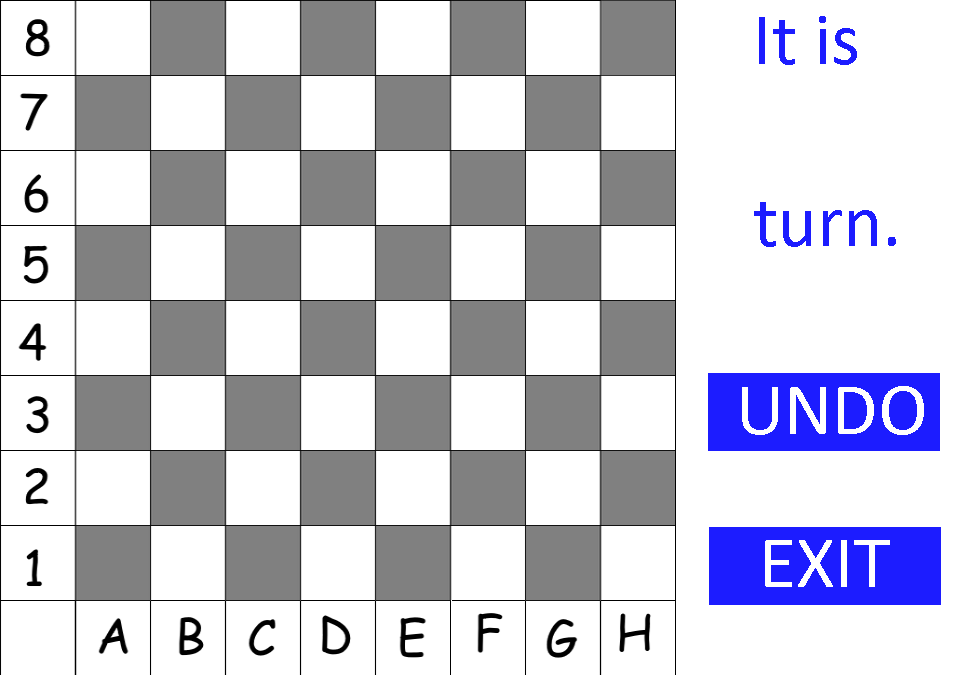
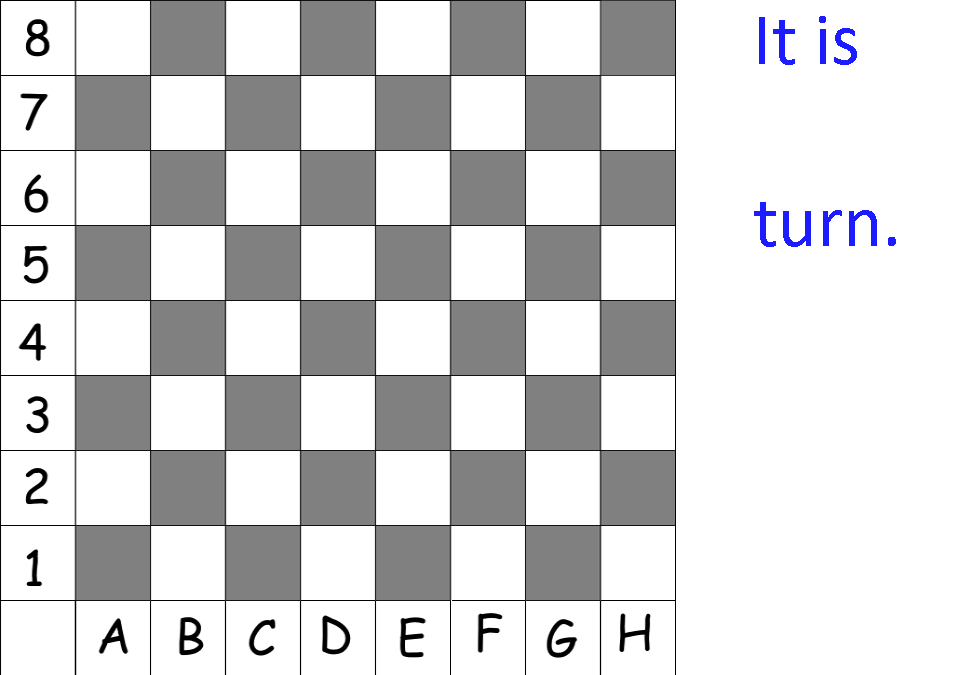
Added a menu

Changed region(s): [[0.7077, 0.5289, 0.9846, 0.6844], [0.7077, 0.7778, 0.9846, 0.9022]]

diff --git a/Chess.html b/Chess.html
@@ -1,15 +1,125 @@
 <html>
 <body>
-<canvas id="chessboard" onclick = "mouseStop()" width="975" height="675" style="border:3px solid #d3d3d3;" >
+<canvas id="chessboard" onclick = "mouseStop()" onmousemove = "mouseMove()" width="975" height="675" style="border:3px solid #d3d3d3;" >
 </canvas>
 
 <script type="text/javascript">
 
 //WIP Features: Collision detection bewtween pieces, Pawns changing into other pieces, en passant
 
-var aiOption = confirm("Do you want to play with AI?");
+//Functions and variables for menu screen. Also includes all buttons that change colors when moused over.
+{
+var aiOption = false;
 
-//Functions and varibles for clicking on the chessboard.
+var inGame = false;
+
+function mouseMove() {
+	if (getMouseCoords(event)[0] > 250 && getMouseCoords(event)[0] < 727 
+	&& getMouseCoords(event)[1] > 407 && getMouseCoords(event)[1] < 555 && inGame == false) {
+		drawMenuPerson();
+	} else if (getMouseCoords(event)[0] > 250 && getMouseCoords(event)[0] < 727 
+	&& getMouseCoords(event)[1] > 116 && getMouseCoords(event)[1] < 262 && inGame == false) {
+		drawMenuAI();
+	} else if (getMouseCoords(event)[0] > 710 && getMouseCoords(event)[0] < 940 
+	&& getMouseCoords(event)[1] > 550 && getMouseCoords(event)[1] < 645 && inGame == true) {
+		drawMenuButtonOn();
+	} else if (inGame == true) {
+		drawMenuButtonOff();
+	} else if (inGame == false) {
+		drawMenuAIOff();
+		drawMenuPersonOff();
+	};
+}
+
+function drawMenuButtonOn () {
+	var c = document.getElementById("chessboard");
+	var ctx = c.getContext("2d");
+	var menuButtonOn = new Image();
+	menuButtonOn.src = "menuButtonOn.png";
+	menuButtonOn.onload = function() {
+	ctx.drawImage(menuButtonOn,710,550,230,91);
+	};
+};
+
+function drawMenuButtonOff () {
+	var c = document.getElementById("chessboard");
+	var ctx = c.getContext("2d");
+	var menuButtonOff = new Image();
+	menuButtonOff.src = "menuButtonOff.png";
+	menuButtonOff.onload = function() {
+	ctx.drawImage(menuButtonOff,710,550,230,91);
+	};
+};
+
+function drawMenuScreen () {
+	var c = document.getElementById("chessboard");
+	var ctx = c.getContext("2d");
+	var menu = new Image();
+	menu.src = "menu.png";
+	menu.onload = function() {
+	ctx.drawImage(menu,0,0,975,675);
+	};
+};
+
+function drawMenuAI () {
+	var c = document.getElementById("chessboard");
+	var ctx = c.getContext("2d");
+	var menuPlayAI = new Image();
+	menuPlayAI.src = "menuPlayAI.png";
+	menuPlayAI.onload = function() {
+	ctx.drawImage(menuPlayAI,254,117,473,145);
+	};
+};
+
+function drawMenuAIOff () {
+	var c = document.getElementById("chessboard");
+	var ctx = c.getContext("2d");
+	var menuPlayAIOff = new Image();
+	menuPlayAIOff.src = "menuPlayAIOff.png";
+	menuPlayAIOff.onload = function() {
+	ctx.drawImage(menuPlayAIOff,254,117,473,145);
+	};
+};
+
+function drawMenuPersonOff () {
+	var c = document.getElementById("chessboard");
+	var ctx = c.getContext("2d");
+	var menuPlayPersonOff = new Image();
+	menuPlayPersonOff.src = "menuPlayPersonOff.png";
+	menuPlayPersonOff.onload = function() {
+	ctx.drawImage(menuPlayPersonOff,253,408,473,145);
+	};
+};
+
+function drawMenuPerson () {
+	var c = document.getElementById("chessboard");
+	var ctx = c.getContext("2d");
+	var menuPlayPerson = new Image();
+	menuPlayPerson.src = "menuPlayPerson.png";
+	menuPlayPerson.onload = function() {
+	ctx.drawImage(menuPlayPerson,253,408,473,145);
+	};
+};
+
+function drawChessplayer () {
+	var c = document.getElementById("chessboard");
+	var ctx = c.getContext("2d");
+	var chessplayer = new Image();
+	var randomInt = (Math.floor(Math.random() * (10)) + 1);
+	chessplayer.src = "chessBackground9.png";
+	chessplayer.onload = function() {
+	ctx.drawImage(chessplayer,0,0,975,675);
+	};
+}
+
+drawChessplayer();
+drawMenuScreen();
+drawMenuAIOff();
+drawMenuPersonOff();
+
+};
+
+//Functions and varibles for clicking on the screen.
 {
 //Every time the canvas is pressed, the x and y coordinates of the mouse are logged in nextTurnOrigin the first time and nextTurnDestination.
 //At the beginning of the next turn, mouseStopVar should be reset to 0.
@@ -37,12 +147,12 @@ function getMouseCoordsDestination(event) {
 
 var mouseStopVar = 0; 
 
-var inGame = true;
-
 //This function calls gameLoop after two clicks are registered and the coords have been recorded, then it resets mouseStopVar.
 //If the mouse is not clicked within the chessboard, menuClicks is called.
-function mouseStop (){
-	clearWarningBox();
+function mouseStop () {
+	if (getMouseCoords(event)[0] < 675 && inGame == true) {
+		clearWarningBox();
+	};
 	if (mouseStopVar == 0 && getMouseCoords(event)[0] < 675 && inGame == true) {
 		getMouseCoordsOrigin(event);
 		if (mouseToArray(nextTurnOrigin) == empty) {
@@ -57,15 +167,27 @@ function mouseStop (){
 		getMouseCoordsDestination(event);
 		gameLoop();
 		mouseStopVar = 0;
-	} else {
-		menuClicks();
-	};
-};
-
-function menuClicks () {
-	if (getMouseCoords(event)[0] > 706 && getMouseCoords(event)[0] < 939 
-	&& getMouseCoords(event)[1] > 367 && getMouseCoords(event)[1] < 445) {
-		moveUndo();
+	} else if (getMouseCoords(event)[0] > 710 && getMouseCoords(event)[0] < 940 
+	&& getMouseCoords(event)[1] > 550 && getMouseCoords(event)[1] < 645 && inGame == true) {
+		inGame = false;
+		chessboardReset();
+		drawMenuScreen();
+	} else if (inGame == false) {
+		if (getMouseCoords(event)[0] > 253 && getMouseCoords(event)[0] < 727 
+		&& getMouseCoords(event)[1] > 116 && getMouseCoords(event)[1] < 262 && inGame == false) {
+			aiOption = true;
+			inGame = true;
+			drawChessboardOutline();
+			drawChessboard();
+			whiteTurn();
+		} else if (getMouseCoords(event)[0] > 250 && getMouseCoords(event)[0] < 727 
+		&& getMouseCoords(event)[1] > 407 && getMouseCoords(event)[1] < 555 && inGame == false) {
+			aiOption = false;
+			inGame = true;
+			drawChessboardOutline();
+			drawChessboard();
+			whiteTurn();
+		};
 	};
 };
 
@@ -110,6 +232,7 @@ function drawChessboardOutline () {
 	} else if (playerTurn == -1) {
 		blackTurn();
 	};
+	
 };
 
 function drawBlueOutline (x,y) { 
@@ -130,7 +253,8 @@ function drawBlueOutline (x,y) {
     blue_outline.src = "blue_outline.png";
     blue_outline.onload = function() {
      ctx.drawImage(blue_outline,xNew,yNew,75,75);
-	};
+	};	
+	
 };
 
 function drawInvalidMove () {
@@ -205,24 +329,6 @@ var chessBoard5 = [empty,empty,empty,empty,empty,empty,empty,empty];
 var chessBoard6 = [empty,empty,empty,empty,empty,empty,empty,empty];
 var chessBoard7 = [PA,PA,PA,PA,PA,PA,PA,PA];	
 var chessBoard8 = [RO,KN,BI,QU,KI,BI,KN,RO];
-
-var chessBoard1Undo = chessBoard1;
-var chessBoard2Undo = chessBoard2;
-var chessBoard3Undo = chessBoard3;
-var chessBoard4Undo = chessBoard4;
-var chessBoard5Undo = chessBoard5;
-var chessBoard6Undo = chessBoard6;
-var chessBoard7Undo = chessBoard7;
-var chessBoard8Undo = chessBoard8;
-
-var chessBoard1Undo2 = chessBoard1Undo;
-var chessBoard2Undo2 = chessBoard2Undo;
-var chessBoard3Undo2 = chessBoard3Undo;
-var chessBoard4Undo2 = chessBoard4Undo;
-var chessBoard5Undo2 = chessBoard5Undo;
-var chessBoard6Undo2 = chessBoard6Undo;
-var chessBoard7Undo2 = chessBoard7Undo;
-var chessBoard8Undo2 = chessBoard8Undo;
 
 //This function places a piece on 'HTMLchessboard' 
 //Input: Chess Piece Variable, X-Coord on Canvas, Y-Coord on Canvas
@@ -666,14 +772,12 @@ function whiteCastling() {
 	var destinationCoords = mouseToCoords(nextTurnDestination);
 	if (mouseToArray(nextTurnOrigin) == KI && destinationCoords[0] == 7 && whiteCastleYet == false
 	&& destinationCoords[1] == 8 && chessBoard8[7] == RO && chessBoard8[6] == empty && chessBoard8[5] == empty) {
-		moveUndoRecord();
 		movePiece(mouseToCoords(nextTurnOrigin),mouseToCoords(nextTurnDestination));
 		movePiece(['8','8'],['6','8']);
 		console.log ("White has kingside castled.");
 		return true;
 	} else if (mouseToArray(nextTurnOrigin) == KI && destinationCoords[0] == 2 && blackCastleYet == false
 	&& destinationCoords[1] == 8 && chessBoard8[0] == RO && chessBoard8[1] == empty && chessBoard8[2] == empty && chessBoard8[3] == empty) {
-		moveUndoRecord();
 		movePiece(mouseToCoords(nextTurnOrigin),mouseToCoords(nextTurnDestination));
 		movePiece(['1','8'],['3','8']);
 		console.log ("White has queenside castled.");
@@ -691,14 +795,12 @@ function blackCastling() {
 	var destinationCoords = mouseToCoords(nextTurnDestination);
 	if (mouseToArray(nextTurnOrigin) == ki && destinationCoords[0] == 7 
 	&& destinationCoords[1] == 1 && chessBoard1[7] == ro && chessBoard1[6] == empty && chessBoard1[5] == empty) {
-		moveUndoRecord();
 		movePiece(mouseToCoords(nextTurnOrigin),mouseToCoords(nextTurnDestination));
 		movePiece(['8','1'],['6','1']);
 		console.log ("White has kingside castled.");
 		return true;
 	} else if (mouseToArray(nextTurnOrigin) == ki && destinationCoords[0] == 2
 	&& destinationCoords[1] == 1 && chessBoard1[0] == ro && chessBoard1[1] == empty && chessBoard1[2] == empty && chessBoard1[3] == empty) {
-		moveUndoRecord();
 		movePiece(mouseToCoords(nextTurnOrigin),mouseToCoords(nextTurnDestination));
 		movePiece(['1','1'],['3','1']);
 		console.log ("White has queenside castled.");
@@ -892,67 +994,6 @@ function movePiece (origin, destination) {
 		
 };
  
-//Records moves. Call before movePiece() 
-function moveUndoRecord () {
-	var chessBoard1Undo2 = chessBoard1Undo;
-	var chessBoard2Undo2 = chessBoard2Undo;
-	var chessBoard3Undo2 = chessBoard3Undo;
-	var chessBoard4Undo2 = chessBoard4Undo;
-	var chessBoard5Undo2 = chessBoard5Undo;
-	var chessBoard6Undo2 = chessBoard6Undo;
-	var chessBoard7Undo2 = chessBoard7Undo;
-	var chessBoard8Undo2 = chessBoard8Undo;
-	
-	var chessBoard1Undo = chessBoard1;
-	var chessBoard2Undo = chessBoard2;
-	var chessBoard3Undo = chessBoard3;
-	var chessBoard4Undo = chessBoard4;
-	var chessBoard5Undo = chessBoard5;
-	var chessBoard6Undo = chessBoard6;
-	var chessBoard7Undo = chessBoard7;
-	var chessBoard8Undo = chessBoard8;
-}
- 
-//This function undos moves using the extra arrays. 
-//Input: none 
-//Output: Changes chessBoard arrays.
-function moveUndo () {
-	if (aiOption == true) {
-		chessBoard1 = chessBoard1Undo2;
-		chessBoard2 = chessBoard2Undo2;
-		chessBoard3 = chessBoard3Undo2;
-		chessBoard4 = chessBoard4Undo2;
-		chessBoard5 = chessBoard5Undo2;
-		chessBoard6 = chessBoard6Undo2;
-		chessBoard7 = chessBoard7Undo2;
-		chessBoard8 = chessBoard8Undo2;	
-		drawChessboardOutline();
-		drawChessboard();
-	} else {
-		chessBoard1 = chessBoard1Undo;
-		chessBoard2 = chessBoard2Undo;
-		chessBoard3 = chessBoard3Undo;
-		chessBoard4 = chessBoard4Undo;
-		chessBoard5 = chessBoard5Undo;
-		chessBoard6 = chessBoard6Undo;
-		chessBoard7 = chessBoard7Undo;
-		chessBoard8 = chessBoard8Undo;
-		
-		chessBoard1Undo = chessBoard1Undo2;
-		chessBoard2Undo = chessBoard2Undo2;
-		chessBoard3Undo = chessBoard3Undo2;
-		chessBoard4Undo = chessBoard4Undo2;
-		chessBoard5Undo = chessBoard5Undo2;
-		chessBoard6Undo = chessBoard6Undo2;
-		chessBoard7Undo = chessBoard7Undo2;
-		chessBoard8Undo = chessBoard8Undo2;	
-				
-		playerTurn = playerTurn * -1;
-		drawChessboardOutline();
-		drawChessboard();		
-	};
-}; 
- 
 //Gives the value of a chess piece based on this: http://chess.stackexchange.com/questions/2409/how-many-points-is-each-chess-piece-worth
 //Input: Chessboard Piece Array Variable
 //Output: Integer
@@ -978,21 +1019,29 @@ function distanceFormula (array1, array2) {
 	return (-1 * (Math.sqrt(((array2[0] - array1[0]) * (array2[0] - array1[0])) + ((array2[1] - array1[1]) * (array2[1] - array1[1])))));
 };
 
-//START CALLING FUNCTIONS AND DOING GAMEFLOW STUFF 
+//Resets the chessboard to starting positions. Also resets turn count.
+function chessboardReset () {
+	playerTurn = 1;
 
-//Drawing the outline of the HTML chessboard on the canvas, 'HTMLchessboard'	
-drawChessboardOutline();
-//Waiting three seconds until after the board outline is drawn the placing the starting pieces on it.
-setTimeout(drawChessboard(), 5000);
-//Initializing the turn counter.
-whiteTurn();
+	chessBoard1 = [ro,kn,bi,qu,ki,bi,kn,ro];
+	chessBoard2 = [pa,pa,pa,pa,pa,pa,pa,pa];
+	chessBoard3 = [empty,empty,empty,empty,empty,empty,empty,empty];
+	chessBoard4 = [empty,empty,empty,empty,empty,empty,empty,empty];
+	chessBoard5 = [empty,empty,empty,empty,empty,empty,empty,empty];
+	chessBoard6 = [empty,empty,empty,empty,empty,empty,empty,empty];
+	chessBoard7 = [PA,PA,PA,PA,PA,PA,PA,PA];	
+	chessBoard8 = [RO,KN,BI,QU,KI,BI,KN,RO];
+	
+};
+
+//START CALLING FUNCTIONS AND DOING GAMEFLOW STUFF 
  
 //Gameflow Variables and Loops:
 
 var playerTurn = 1;
 
 function getRandomIntInclusive(min, max) {
-  return Math.floor(Math.random() * (max - min + 1)) + min;
+	return Math.floor(Math.random() * (max - min + 1)) + min;
 };
 
 //Chess AI
@@ -1104,7 +1153,7 @@ function chessAI () {
 			movePiece(mouseToCoords(nextTurnOrigin), mouseToCoords(nextTurnDestination));
 			drawChessboardOutline();
 			drawChessboard();
-			console.log(originBeforeMovement + " moved to " + mouseToCoords(nextTurnDestination));		
+			console.log(originBeforeMovement + " moved to " + mouseToCoords(nextTurnDestination));	
 			break;
 		
 		} else {
@@ -1164,7 +1213,6 @@ function gameLoop () {
 		
 	} else if (moveCheck(mouseToArray(nextTurnOrigin)) == true) {
 		originBeforeMovement = mouseToArray(nextTurnOrigin); //Only used for console.log
-		moveUndoRecord();
 		movePiece(mouseToCoords(nextTurnOrigin), mouseToCoords(nextTurnDestination));
 		drawChessboardOutline();
 		drawChessboard();
@@ -1180,7 +1228,7 @@ function gameLoop () {
 //		console.log(chessBoard7);
 //		console.log(chessBoard8);
 		//For console log.
-
+		
 		if (playerTurn == 1 && aiOption == true){
 			whiteTurn();
 			playerTurn = -1;
